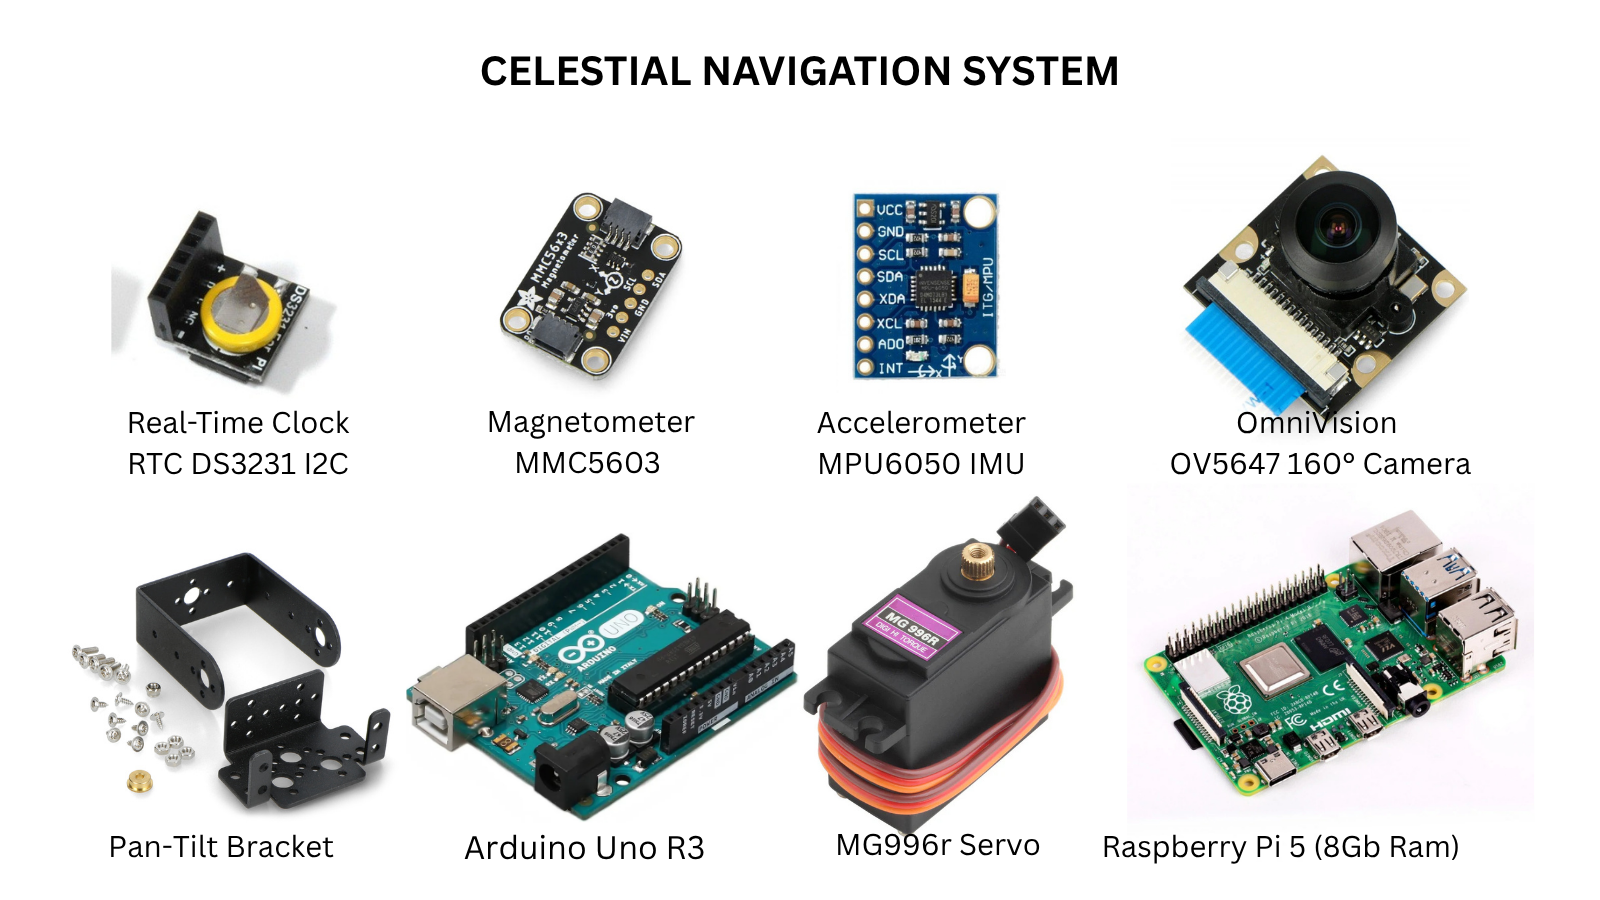
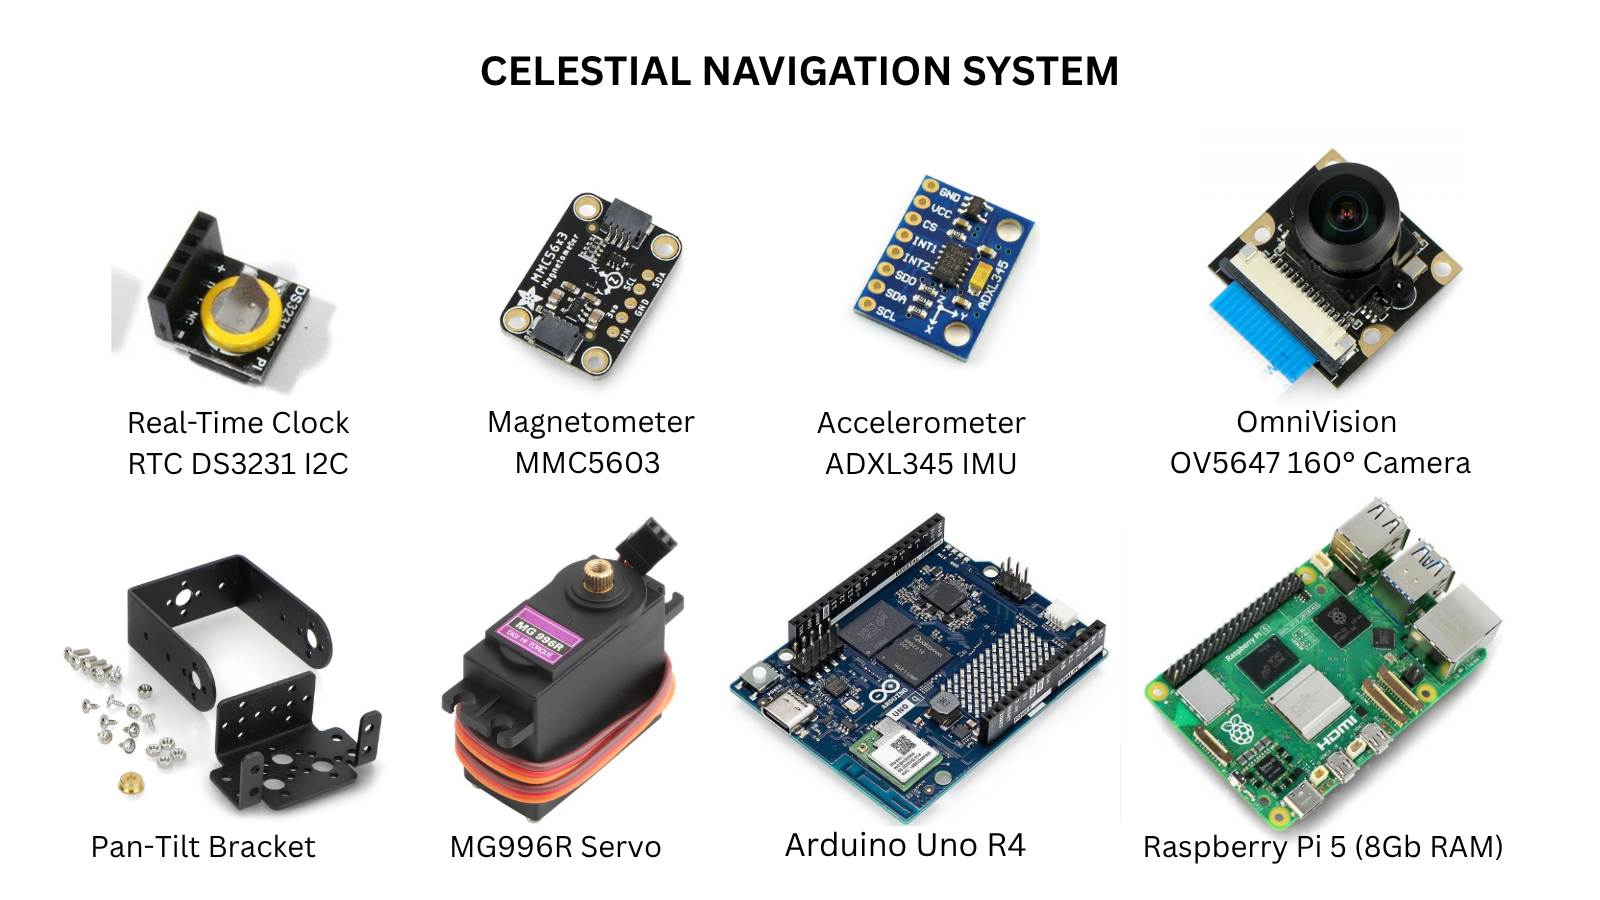
Update hardware images for CNS and 5-DOF projects

diff --git a/index.html b/index.html
@@ -756,7 +756,7 @@ Magnetometer — MMC5603 3-axis</span></div>
     </div>
 
     <h4>Hardware &amp; Sensors</h4>
-    <img class="hw-collage" src="images/hardware/celestial-navigation.png" alt="Celestial Navigation System hardware: RTC DS3231, MMC5603 magnetometer, MPU6050 IMU, OV5647 camera, pan-tilt bracket, Arduino Uno R3, MG996r servo, Raspberry Pi 5">
+    <img class="hw-collage" src="images/hardware/celestial-navigation.png" alt="Celestial Navigation System hardware: RTC DS3231, MMC5603 magnetometer, ADXL345 IMU, OV5647 camera, pan-tilt bracket, MG996R servo, Arduino Uno R4, Raspberry Pi 5">
   </div>
 </div>
 
@@ -789,7 +789,7 @@ NEMA 17 Stepper Motor</span></div>
     </div>
 
     <h4>Hardware &amp; Sensors</h4>
-    <img class="hw-collage" src="images/hardware/robotic-arm.png" alt="Robotic Manipulator hardware: 6705 bearing, Nema 17 stepper motor, Feetech ST3215 servo, Arduino Uno R4, 51109 bearing, MG996r servo">
+    <img class="hw-collage" src="images/hardware/robotic-arm.png" alt="5-DOF Robotic Manipulator hardware: 6705 bearing, Feetech STS3215 servo, Arduino Uno R4, 51109 bearing, 300W 10A buck converter, FE-URT-1 servo controller">
   </div>
 </div>
 
